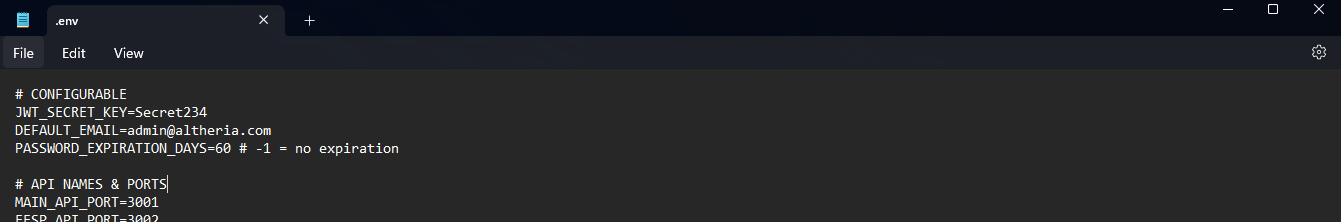
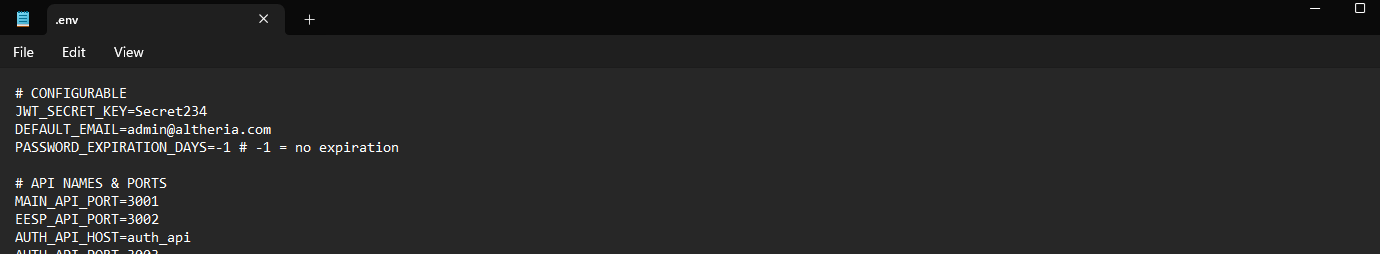
(EESP-417) chore: offline server updated doc

diff --git a/docs/general/Offline-Installation.md b/docs/general/Offline-Installation.md
@@ -8,58 +8,58 @@ This method is more complex and will require some technical knowledge about netw
 This page will provide an example of how to set up the software, but you are free to expand on this to fit the needs of your organization better.
 
 # Requirements:
-1. **A computer:** This Windows or Linux computer will act as a server for the EESP Console and the multiplayer sessions.
+1. **A windows computer:** This Windows will act as a server for the EESP Console and the multiplayer sessions. We recoomend at least 16 GB of RAM.
+2. This computer will need [WSL](https://learn.microsoft.com/en-us/windows/wsl/install) and [Docker](https://docs.docker.com/engine/install/) installed. Please follow the latest instructions on these pages.
+3. **A WI-FI network:** This network does not need to be connected to the internet. The computer and headsets need to be connected to this network.
+    Reminder: If the network has no internet the headsets will not automatically connect to the WIFI. You will need to reconnect the headset every time after booting it. Unfortunately this is out of out control.
+    
+    **Note: For the installation the network will need internet connection!** After installation is completed you can disconnect the network from the internet.
+4. **A static IP address**: We strongly recommend you set a static IP address for the PC. Either on the router DHCP settings (recommended) or [in the windows adapter settings](https://www.trendnet.com/press/resource-library/how-to-set-static-ip-address).
+4. **Download all the software**: Download all the latest versions of the software. We recommend you place them all in 1 folder like the image below.
 
-    1.1. This computer also needs [Docker](https://docs.docker.com/engine/install/) installed. If you are using Linux, make sure [Docker Compose](https://docs.docker.com/compose/install/) is also installed.
-2. **A WI-FI network:** This network does not need to be connected to the internet. The computer and headsets need to be connected to this network.
-3. **A static IP address**: The IP address of the computer should remain the same. If the IP address changes, you will need to repeat some of the installation process to switch to the new IP address.
-
-The online installation is by far the easiest and is recommended for most users. The offline installation should be done by someone with more technical knowledge.
+![EESP files](/img/downloaded-files.png)
 
 # Example Setup
 This sections will provide a simple example of how the EESP software can be set up on your infrastructure.
 ## Step 1: Configuring the Console
+**Reminder: The initial installation required internet connection. You can disconnect the internet after everything is installed.**
+
 Some settings in the console need to be updated before you can launch it.
-Navigate to the root directory of the Console.
+
+Open the file **Offline-Console** folder.
+
 Open the `.env` file. The first lines of the file contain some options that need to be configured. If the .env file in not visible, make sure hidden items are enabled in your file explorer settings.
 
-- JWT_SECRET_KEY: This should be complex combination of letters, numbers and symbols.
-- DEFAULT_EMAIL: The email address that will be used for the System Administrator account.
-- PASSWORD_EXPIRATION: Passwords will need to be changed every 60 days by default. This can be disabled by using **-1** instead.
+- JWT_SECRET_KEY: This should be a combination of letters, numbers and symbols. If you change the default value make sure to copy is somewhere because you will need it later.
+- DEFAULT_EMAIL: The email address that will be used for the System Administrator account. Using this account you can create new accounts if desired.
+- PASSWORD_EXPIRATION: Its possible to enforce that a user has to change their password after some amount of days have passed. For a fully offline setup we don't believe this is required, but you are free to choose. (-1 will disable this function)
 
 ![Env Config](/img/env-config.png)
 
 open the `.env` file in the **VERTIgO-froten-end** folder.
 
-- PUBLIC_HEADSET_SERVER: The IP address of the Console computer followed by the port. **Example: 192.168.1.100:8181**
-- PUBLIC_MAIN_SERVER: The IP address of the Console computer followed by the port. **Example: 192.168.1.100:3001**
-- PUBLIC_API_PROTOCOL: The offline Console will use HTTP by default. HTTPS can be configured using a reverse proxy such as Nginx. This is outside of the score for this document.
 - JWT_SECRET_KEY: This has to be the same JWT_SECRET_KEY you used in the previous **.env** file.
 
 ![Frontend Env Config](/img/frontend-env-config.png)
 
-Navigate to the root of the Console in a terminal application. Type `docker-compose up --build -d`. The first time installation will require internet connection to download some required components. If your current network does not have internet you can temporarily switch your computer to a different network with internet connection and switch back to the offline network when the installation has completed.
-You can verify that the console is running by opening the Docker Desktop program on windows and check if all boxed inside the **vertigo-full-stack** container are green. ![Console is running](/img/console-is-running.png)
+Navigate to the **Offline-Console** folder and open the build.bat file. This will install the console which can take 10 minutes. When the installation has completed you can verify that the console is running by opening the Docker Desktop program on windows and check if all boxed inside the **vertigo-full-stack** or **Offline-Console** container are green. ![Console is running](/img/console-is-running.png)
 
-Open your browser and navigate to **http://you-ip-address:8080**. If the login screen appears, it is set up correctly.
+Open your browser and navigate to **http://your-ip:8080**. If the login screen appears, it is set up correctly.
 
 ![Console Login](/img/console-login.png)
 
 ## Step 2: Creating the Admin user
-Open your browser and navigate to **http://you-ip-address:3000/seed**. This page will generate the user you configured inside the `.env` file earlier using a random password. Find the random password on the page and copy it to the clipboard. Navigate to **http://you-ip-address:8080** to login using the email and random password and follow the instructions to choose a new password.
+Open your browser and navigate to **http://your-ip:3000/seed**. This page will generate the user you configured inside the `.env` file earlier using a random password. Find the random password on the page and copy it to the clipboard. Navigate to **http://your-ip:8080** to login using the email and random password and follow the instructions to choose a new password.
 
 ## Step 3: Connecting the editor, headsets and live viewer.
-Please follow the same instructions provided on the [Online Installation Guide](/docs/general/Online-installation) but replace **https://vertigo.altheria.com** with the IP address of your Console server, for example **http://192.168.1.100**. Return to this page after you completed all steps.
+Please follow the same instructions provided on the [Online Installation Guide](/docs/general/Online-installation) but replace **https://vertigo.altheria.com** with the **static IP address of your PC**, **https://your-ip.com** for example **http://192.168.1.100**. Return to this page after you completed all steps.
 
 ## Step 4: Configuring and launching a multiplayer server.
 The a multiplayer session consists of a trainees inside the VR application, optionally a trainer of the PC live viewer, and a multiplayer server. The server is the central authority in the session that synchronizes all trainees and 1 multiplayer server is required for every session. Its possible to run multiple servers at the same time to support multiple training session simultaneously for larger training center, but this setup is more complex.
 
 ### Windows
-Open the Windows Server folder (or WinServer) you downloaded and run the .exe file 1 time. This will create required files on your PC.
-This will open a black windows with text. Wait a few second. If you see the message "Server is ready!" it was able to connect to the vertigo console. If you see "ERROR: NO DOMAIN HAS BEEN SPECIFIED FOR THIS SERVER!" you will need to do some more configuration.
-
-Navigate to the folder `C:\Users\<USER>\AppData\LocalLow\AltheriaSolutions\EESP` (the names might change after updates) and open the config.txt file. Type the IP address of the PC where the Console is located.
-![Server Config](/img/server-config.png)
+Open the **WinServer** folder (or WinServer) you downloaded and run the .exe file 1 time. This will create required files on your PC.
+This will open a black windows with text. Wait a few second. If you see the message "Server is ready!" it was able to connect to the vertigo console. 
 
 Save the file and run the .exe file of the Multiplayer Server again. After waiting, the "Server is ready!" should appear.
 You can now launch a training inside the Console.
@@ -67,8 +67,23 @@ You can now launch a training inside the Console.
 It's is recommended to restart the server .exe between every training but it's is not required.
 
 :::tip
-The server does not need to run on the same PC as the Console. Its also possible to run multiple servers on different PC's that all connect to the same Console to support multiple simultaneous training sessions. Its also possible to run the servers inside multiple virtual machines as long as they use bridge networking.
+This setup will only allow 1 VR training at the same time. It is possible to have multiple trainings at the same time but this will be much more complex on the networking side as well as require virtual machines. 
+
+A simpler solutions in having 2 separate networks each with their own dedicated PC and dedicated console.
 :::
 
-### Linux
-It's also possible to run the server on Linux or a Linux VM soon. This section will be updated soon when it's ready.
+### Troubleshooting
+1. **Trainings stops after a few second:** If you receive the message "something went wrong" inside the VR training, it is possible the EESP server needs a little more configuration. 
+
+    Please navigate to **C:\Users\\(user)\AppData\LocalLow\AltheriaSolutions\EESP_V2** and open the **config.txt** file. Insert you static IP address after **IP_OVERWRITE=** like so. 
+
+    ![server-ip-overwrite](/img/server-ip-overwrite.png)
+
+    Relaunch the EESP_V2.exe inside the WinServer folder and try gain.
+
+### Contact
+If you are experiencing issues you can contact:
+- arthur.vanremoortel@altheria-solutions.com
+- amaury@altheria-solutions.com
+
+
